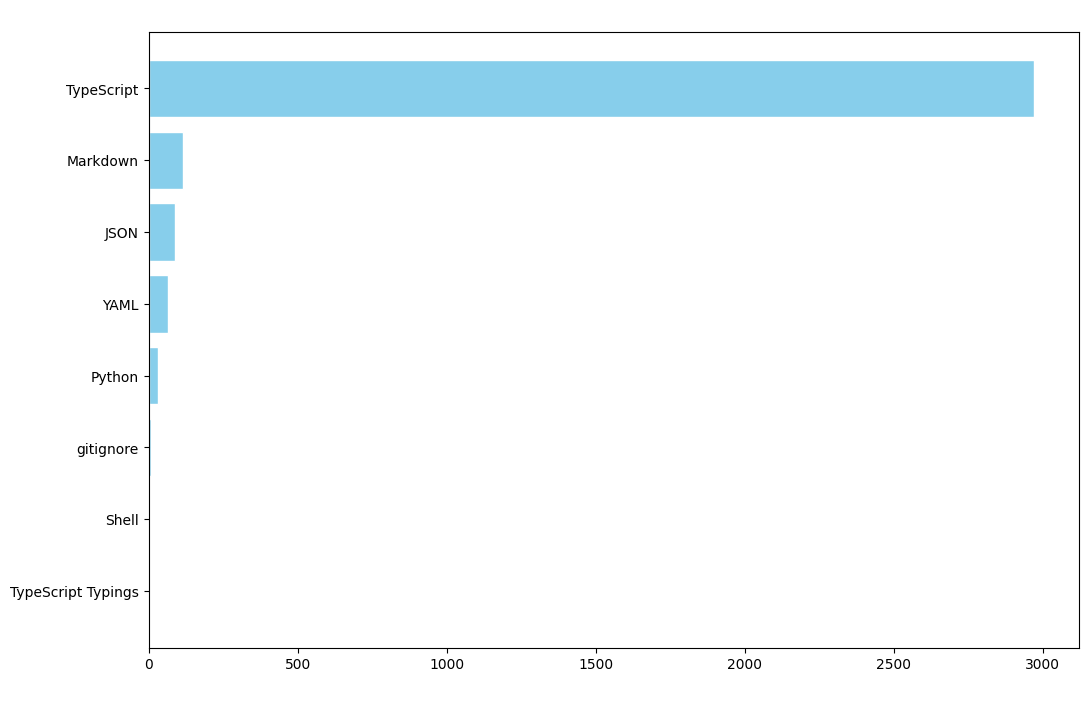
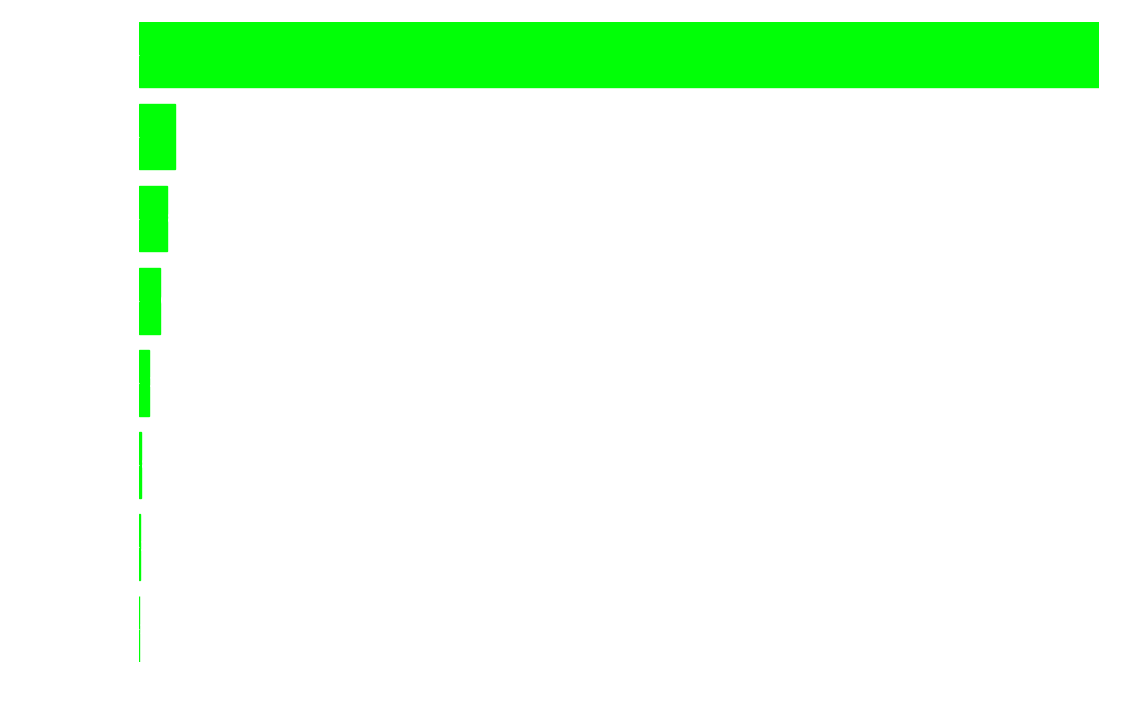
Done with tests

diff --git a/.github/scripts/count-loc.py b/.github/scripts/count-loc.py
@@ -24,13 +24,35 @@ def generate_bar_chart(data):
 
     # Create a bar chart
     plt.figure(figsize=(12, 8))
-    plt.barh(sorted_languages, sorted_lines_of_code, color='#01ff07', edgecolor='white')
+    bars = plt.barh(sorted_languages, sorted_lines_of_code, color='#01ff07', edgecolor='#01ff07')
+
+    # Set text color to white for labels and title
     plt.xlabel('Lines of Code', color='white')
     plt.title('Lines of Code by Language', color='white')
+
+    # Set the color of the ticks and labels
+    plt.gca().tick_params(axis='both', colors='white')
+    plt.gca().xaxis.set_tick_params(labelcolor='white')
+    plt.gca().yaxis.set_tick_params(labelcolor='white')
+
+    # Add text labels to each bar with white color
+    for bar in bars:
+        width = bar.get_width()
+        plt.text(width, bar.get_y() + bar.get_height()/2, f'{int(width)}', 
+                 va='center', ha='left', color='white')
+
     plt.gca().invert_yaxis()  # Highest values at the top
-    
+
+    # Remove extra padding and borders
+    plt.subplots_adjust(left=0.1, right=0.9, top=0.9, bottom=0.1)
+    plt.margins(x=0, y=0)
+    plt.gca().spines['top'].set_visible(False)
+    plt.gca().spines['right'].set_visible(False)
+    plt.gca().spines['left'].set_visible(False)
+    plt.gca().spines['bottom'].set_visible(False)
+
     # Save the chart to a file
-    plt.savefig('LOC_bar_chart.png', transparent=True, bbox_inches='tight')
+    plt.savefig('LOC_bar_chart.png', transparent=True, bbox_inches='tight', pad_inches=0)
     plt.close()
     print("Bar chart saved as LOC_bar_chart.png")
 

diff --git a/README.md b/README.md
@@ -1,4 +1,4 @@
-# Github Stats
+![Lines of Code by Language](LOC_bar_chart.png)
 
 # Prestigious
 
@@ -106,4 +106,3 @@ Craft new items with resources gained from scavenging
 ### B-1
 
 -   Public release of the bot!
-![Lines of Code by Language](LOC_bar_chart.png)
